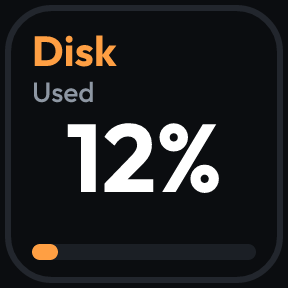
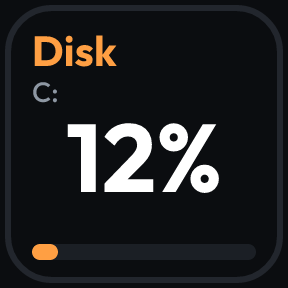
Name the drive on the disk key, and say what LibreHardwareMonitor is needed for
The disk key said Used under Disk, which the percentage already tells. It now says which drive it reads.
The note that pointed at LibreHardwareMonitor read LHM closed, which made it look like the first source of
the processor temperature. It is only the reserve, so it now reads Needs LHM.

Changed region(s): [[0.0938, 0.2812, 0.3438, 0.375]]

diff --git a/com.ulanzi.systemmonitorpro.ulanziPlugin/plugin/ulanzi.js b/com.ulanzi.systemmonitorpro.ulanziPlugin/plugin/ulanzi.js
@@ -103,7 +103,9 @@ export class MonitorActions {
     const state = classify(reading, this.limits, instance.level, this.hysteresis);
     instance.level = state;
     const accent = instance.settings.accent === 'auto' ? GROUP_ACCENT[metric.group] : instance.settings.accent;
-    const view = { group: GROUPS[metric.group], sub: this.t(metric.label), accent, state, value: 'N/D' };
+    // A drive key says which drive it reads, in place of what it measures, which its percentage already shows.
+    const sub = metric.group === 'disk' && scope ? scope : this.t(metric.label);
+    const view = { group: GROUPS[metric.group], sub, accent, state, value: 'N/D' };
     if (state === 'unavailable') return { ...view, note: this.t(this.noteFor(instance.metric)) };
 
     const { text, unit } = format(instance.metric, reading.value);

diff --git a/com.ulanzi.systemmonitorpro.ulanziPlugin/plugin/monitor.js b/com.ulanzi.systemmonitorpro.ulanziPlugin/plugin/monitor.js
@@ -185,7 +185,7 @@ export class Monitor {
   noteFor(metric) {
     const { source, state } = this.describe(metric);
     switch (state) {
-      case 'offline': return source === 'lhm' ? 'LHM closed' : 'No reading';
+      case 'offline': return source === 'lhm' ? 'Needs LHM' : 'No reading';
       case 'missing': return source === 'nvidia' ? 'No NVIDIA' : 'No sensor';
       case 'unconfigured': return 'Not set up';
       case 'ok': return 'No data';

diff --git a/docs/VERIFY.md b/docs/VERIFY.md
@@ -11,7 +11,7 @@ Do not check off tests you did not run.
 - [ ] On a desktop, check that the thermal zone exists at all. If it does not, the key says so and falls back on LibreHardwareMonitor.
 - [ ] On a PC with an NVIDIA card: GPU usage, GPU temperature and video memory usage agree with `nvidia-smi` and Task Manager. Note where `nvidia-smi.exe` lives: the plugin looks in `System32`, in `NVIDIA Corporation\NVSMI` and in the PATH.
 - [ ] On a PC with two cards (an integrated one and an NVIDIA or AMD one): the panel lists both, "Automatic" picks the discrete one, and each key can be set to either.
-- [ ] On a PC with an AMD card: with LibreHardwareMonitor closed the GPU keys say "LHM closed". With it open as administrator, with Options > Remote Web Server > Run, they show numbers within about 15 seconds. Note any key that says "No sensor", and send the names in `/data.json`.
+- [ ] On a PC with an AMD card: with LibreHardwareMonitor closed the GPU keys say "Needs LHM". With it open as administrator, with Options > Remote Web Server > Run, they show numbers within about 15 seconds. Note any key that says "No sensor", and send the names in `/data.json`.
 - [ ] Ping and loss: unplug the network, and loss climbs to 100% and ping says N/D.
 - [ ] Take every processor temperature key off the deck: its PowerShell process leaves within a few seconds. Do the same with the NVIDIA keys and nvidia-smi.
 - [ ] Start a game with an anti-cheat that blocks drivers, with LibreHardwareMonitor closed, and confirm the plugin alone causes no complaint. Check the game's own rules before ever running it together with LibreHardwareMonitor.

diff --git a/docs/IMPLEMENTATION.md b/docs/IMPLEMENTATION.md
@@ -2,7 +2,7 @@
 
 ## What a key is
 
-Nine readings, and only these. Every usage is a percentage of use. Each key shows one: the group and what it measures on top, the number big in the middle, a bar below it, and a faint graph of the last two minutes behind. At a warning or critical level (usage and temperatures, video memory, ping, loss) the ring and the number turn yellow or red and a mark appears, so color is never the only sign. A reading that is missing says N/D and why on the key ("LHM closed", "No NVIDIA", "Measuring"), and is never drawn as zero. The panel lets a key choose its color, hide the graph, and, for the graphics card keys and the drive key, choose which card or drive it reads. It also says what the key is waiting for.
+Nine readings, and only these. Every usage is a percentage of use. Each key shows one: the group and what it measures on top, the number big in the middle, a bar below it, and a faint graph of the last two minutes behind. At a warning or critical level (usage and temperatures, video memory, ping, loss) the ring and the number turn yellow or red and a mark appears, so color is never the only sign. A reading that is missing says N/D and why on the key ("Needs LHM", "No NVIDIA", "Measuring"), and is never drawn as zero. The panel lets a key choose its color, hide the graph, and, for the graphics card keys and the drive key, choose which card or drive it reads. It also says what the key is waiting for.
 
 The plugin is **Windows only** for now, by the maintainer's choice, and reads **NVIDIA and AMD** cards.
 
